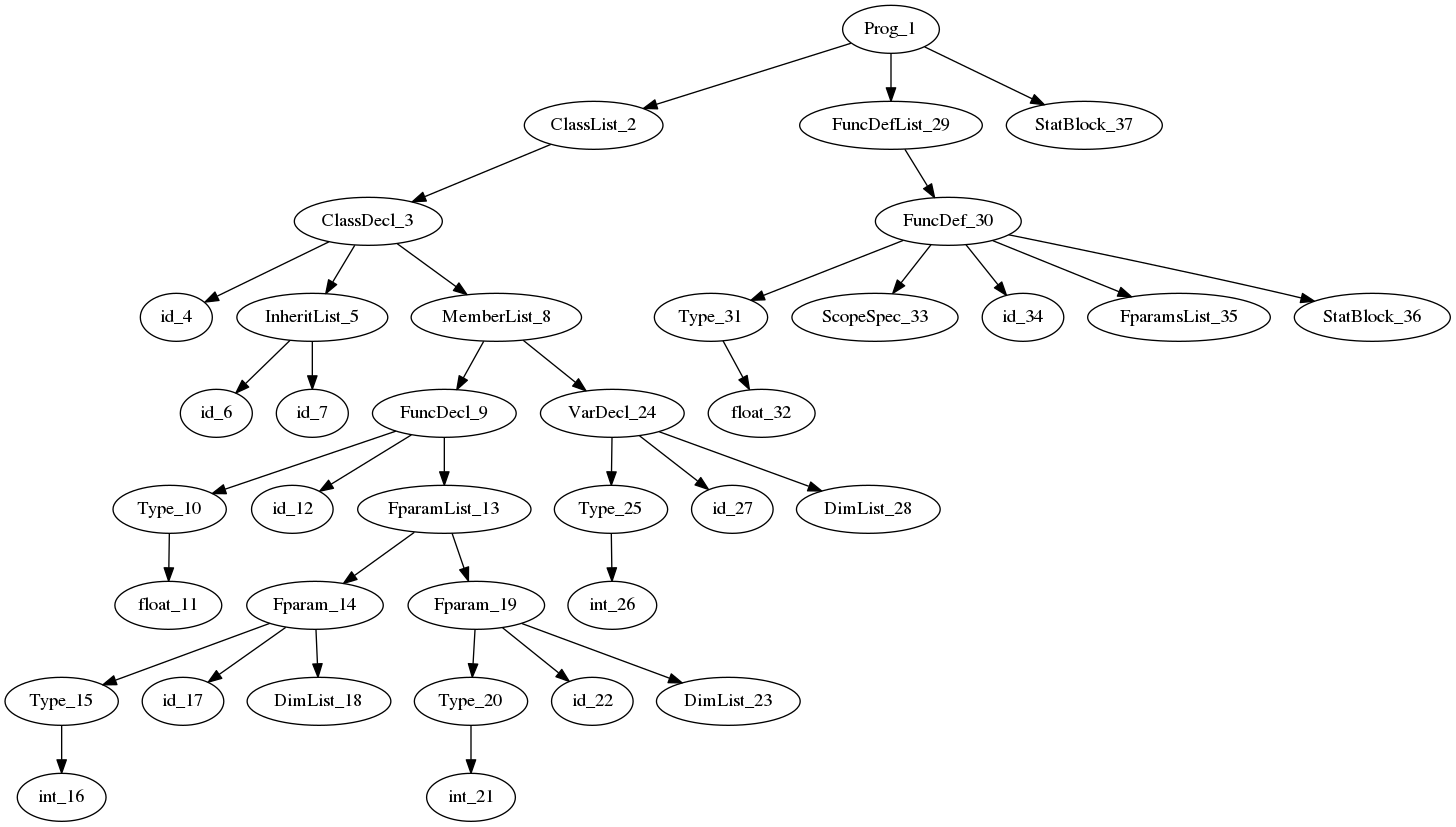
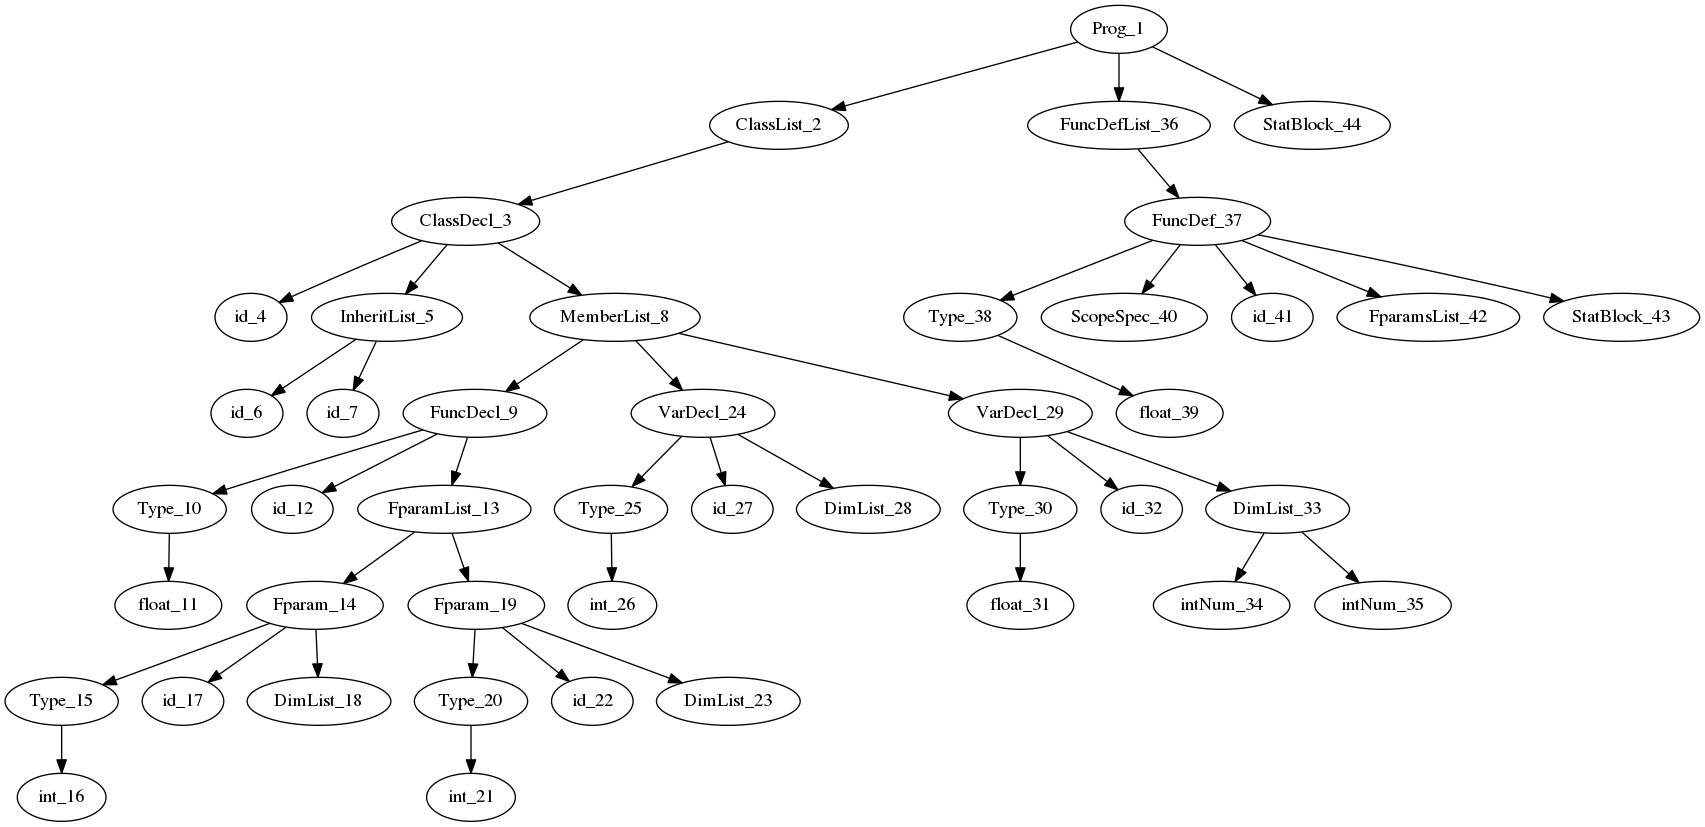
yup

diff --git a/refactor/Syn/ast/visitor.go b/refactor/Syn/ast/visitor.go
@@ -20,6 +20,8 @@ func (visitor *TableCreationVisitor) visit(node *Node) {
 		node.visitProg()
 	case "ClassDecl":
 		node.visitClassDecl()
+	case "VarDecl":
+		node.visitVarDecl()
 	default:
 		node.visitNone()
 	}
@@ -69,6 +71,19 @@ func (n *Node) visitClassDecl() {
 		n.Table.AddEntry(v.Entry)
 	}
 	n.Entry = Sem.NewEntry(className, "class", list, n.Table)
+}
+
+func (n *Node) visitVarDecl() {
+	list := n.GetChildren()[0].GetChildren()[0].Value + " "
+	dims := n.GetChildren()[2].GetChildren()
+	for i := 0; i < len(dims); i++ {
+		if i == len(dims)-1 {
+			list += fmt.Sprintf("%s", dims[i].Value)
+		} else {
+			list += fmt.Sprintf("%s:", dims[i].Value)
+		}
+	}
+	n.Entry = Sem.NewEntry(n.GetChildren()[1].Token.Lit, "variable", list, nil)
 }
 
 func (n *Node) acceptGeneric(visitor Visitor) {
